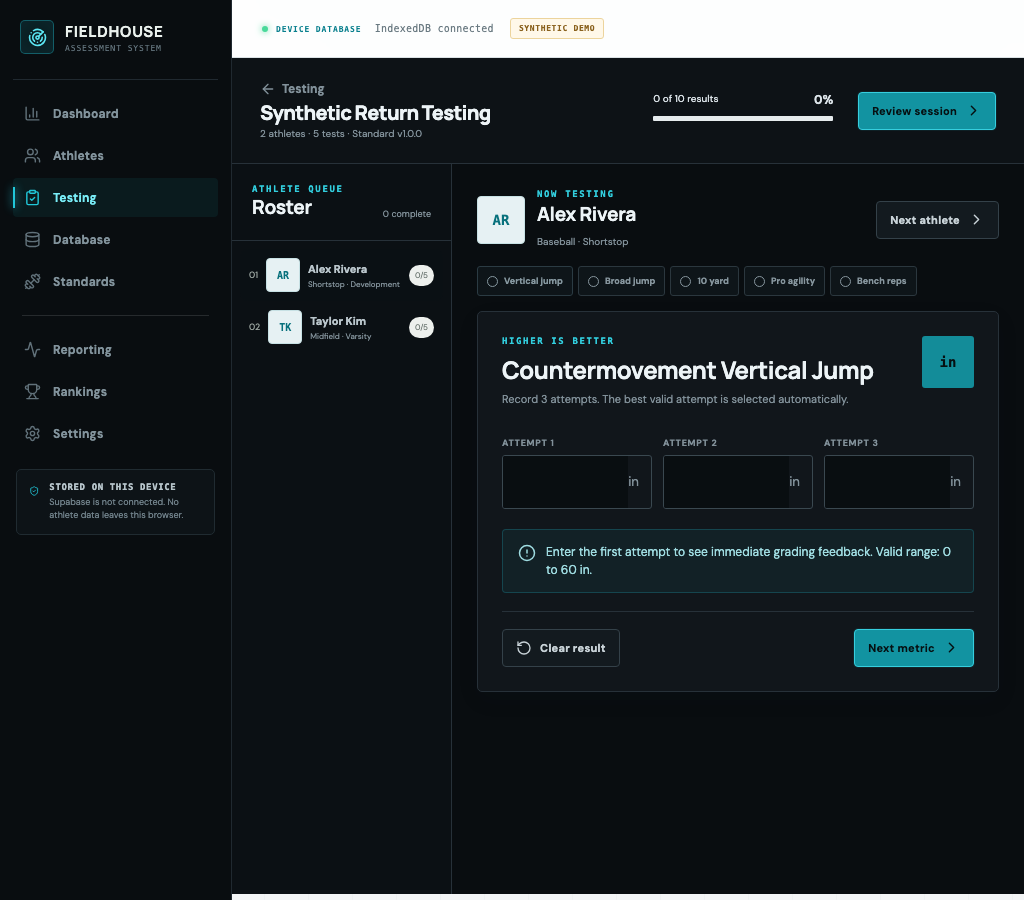
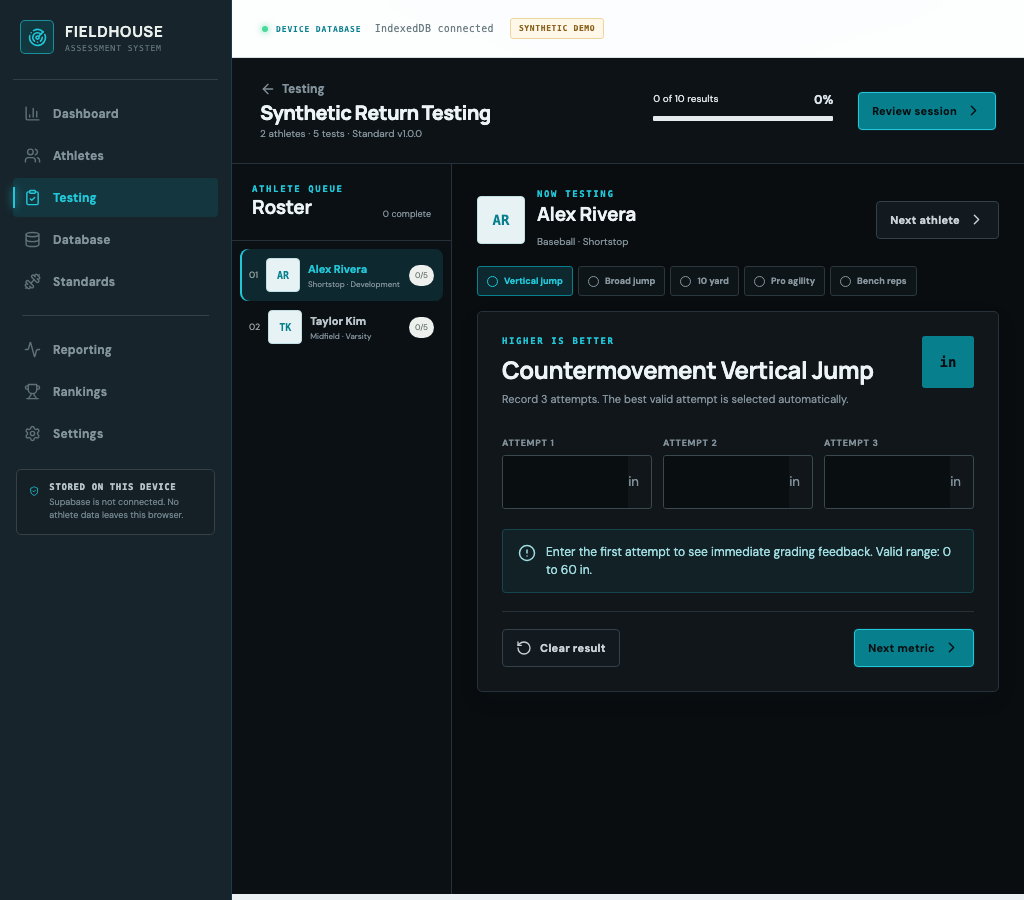
fix: apply coach colors across the system

Changed region(s): [[0.0, 0.0, 0.4375, 1.0], [0.5, 0.3111, 0.5625, 0.3422]]

diff --git a/src/styles.css b/src/styles.css
@@ -136,3 +136,22 @@ th{color:#64757d;background:#f4f7f8}th,td{border-color:#e0e6e8}tbody tr:hover{ba
 @media(max-width:1100px){.ranking-controls{grid-template-columns:repeat(3,1fr)}}
 @media(max-width:800px){.ranking-controls{grid-template-columns:1fr 1fr}}
 @media(max-width:520px){.ranking-controls{grid-template-columns:1fr}.report-detail-row>div:first-child strong,.report-grade strong,.report-percentile strong{font-size:12px}.report-detail-row>p,.report-definition p,.report-contract-grid p,.report-athlete-summary p:last-child{font-size:10px}.report-brand-lockup strong{font-size:12px}.report-brand-lockup small,.report-meta dt,.report-detail-row small{font-size:9px}}
+
+/* Coach brand token bridge. These rules intentionally follow every visual pass. */
+.app-shell{background-color:color-mix(in srgb,var(--brand-primary) 3%,#f3f5f6);background-image:radial-gradient(900px 450px at 65% -180px,color-mix(in srgb,var(--brand-accent) 12%,transparent),transparent 72%)}
+.sidebar{background:var(--brand-shell);border-right-color:color-mix(in srgb,var(--brand-accent) 16%,var(--brand-shell))}
+.brand{border-bottom-color:color-mix(in srgb,#fff 12%,var(--brand-shell))}.brand-mark{background:color-mix(in srgb,var(--brand-primary) 18%,transparent);border-color:color-mix(in srgb,var(--brand-accent) 62%,transparent);color:var(--brand-accent);box-shadow:inset 0 0 18px color-mix(in srgb,var(--brand-primary) 12%,transparent)}
+.sidebar nav a:hover{background:color-mix(in srgb,#fff 7%,var(--brand-shell))}.sidebar nav a.active{background:color-mix(in srgb,var(--brand-primary) 20%,var(--brand-shell));color:var(--brand-accent)}.sidebar nav a.active:before{background:var(--brand-accent);box-shadow:0 0 8px var(--brand-accent)}.sidebar nav a.active svg,.data-boundary svg{color:var(--brand-accent)}
+.data-boundary{border-color:color-mix(in srgb,#fff 13%,var(--brand-shell));background:color-mix(in srgb,#000 12%,var(--brand-shell))}.nav-break{background:color-mix(in srgb,#fff 13%,var(--brand-shell))}
+.topbar-title b,.eyebrow,.section-heading>a,td a,.text-button,.direction-card svg,.incomplete-contract>svg,.service-card>svg,.ranking-control-title svg{color:var(--brand-primary)}
+.button.primary{background:var(--brand-primary);border-color:var(--brand-primary);color:#fff}.button.primary:hover{background:color-mix(in srgb,var(--brand-primary) 82%,#000);border-color:color-mix(in srgb,var(--brand-primary) 82%,#000)}.button.secondary:hover{border-color:var(--brand-primary);color:var(--brand-primary)}
+.stat-card:hover{border-top-color:var(--brand-accent)}.stat-card svg{color:var(--brand-primary);background:color-mix(in srgb,var(--brand-primary) 9%,#fff);border-color:color-mix(in srgb,var(--brand-primary) 24%,#fff)}
+.progress span,.mini-bar span,.score-track span{background:var(--brand-primary)}.quick-start>a>span,.timeline-dot,.empty-icon{background:color-mix(in srgb,var(--brand-primary) 10%,#fff);border-color:color-mix(in srgb,var(--brand-primary) 25%,#fff);color:var(--brand-primary)}
+.search-field:focus-within,input:focus,select:focus{border-color:var(--brand-primary);outline-color:color-mix(in srgb,var(--brand-primary) 15%,transparent)}.athlete-card:hover{border-color:color-mix(in srgb,var(--brand-primary) 55%,#fff)}.avatar{background:color-mix(in srgb,var(--brand-primary) 10%,#fff);color:var(--brand-primary);border-color:color-mix(in srgb,var(--brand-primary) 25%,#fff)}
+.choice-list button.selected,.roster-picker button.selected{border-color:var(--brand-primary);background:color-mix(in srgb,var(--brand-primary) 7%,#fff)}.selected .checkbox,.step-number{background:var(--brand-primary);border-color:var(--brand-primary)}
+.leader-row:hover strong{color:var(--brand-primary)}.leader-track span,.grade-track span{background:linear-gradient(90deg,var(--brand-shell),var(--brand-primary))}.coverage-visual{background:conic-gradient(var(--brand-primary) var(--coverage-angle,0deg),#dce4e7 0deg)}
+.profile-tabs button.active,.audience-nav button.active,.profile-directory-list button.active{border-color:var(--brand-primary);background:color-mix(in srgb,var(--brand-primary) 8%,#fff);box-shadow:inset 3px 0 var(--brand-primary)}.profile-directory-list button.active>span,.metric-navigation button.active{background:var(--brand-primary);border-color:var(--brand-primary)}.audience-chips span,.profile-tags span{color:var(--brand-primary);background:color-mix(in srgb,var(--brand-primary) 7%,#fff);border-color:color-mix(in srgb,var(--brand-primary) 22%,#fff)}
+.upload-zone,.import-steps span{color:var(--brand-primary)}.import-steps span{background:color-mix(in srgb,var(--brand-primary) 9%,#fff)}
+.subtabs button[aria-selected=true]{color:var(--brand-primary);border-color:var(--brand-primary)}.archetype-icon{background:color-mix(in srgb,var(--brand-primary) 10%,#fff);color:var(--brand-primary)}.rank-1,.rank-2,.rank-3{background:var(--brand-shell)}
+.report-header{border-color:var(--brand-shell)}.report-sheet h1,.report-sheet h2,.report-sheet h3{color:var(--brand-shell)}.report-contract-grid>div{background:var(--brand-shell)}.report-contract-grid span{color:var(--brand-accent)}.report-definition{border-left-color:var(--brand-primary)}.trend-dot{background:var(--brand-primary);box-shadow:0 0 0 1px var(--brand-primary)}
+.live-page .eyebrow,.live-kicker{color:var(--brand-accent)}.live-page .button.primary,.unit-badge{background:var(--brand-primary);border-color:var(--brand-accent)}.metric-tabs button.active,.queue-list button.active{background:color-mix(in srgb,var(--brand-primary) 18%,#0e1519);color:var(--brand-accent);border-color:var(--brand-primary)}.queue-list button.active{box-shadow:inset 2px 0 var(--brand-accent)}

diff --git a/src/components/Shell.tsx b/src/components/Shell.tsx
@@ -17,7 +17,7 @@ const insightLinks = [
 ]
 function NavGroup({ links, close }: { links: typeof primaryLinks; close: () => void }) { return <>{links.map(({ to, label, icon: Icon, end }) => <NavLink key={to} to={to} end={end} onClick={close}><Icon size={19} /><span>{label}</span></NavLink>)}</> }
 export default function Shell() {
-  const [open, setOpen] = useState(false); const brand = useBrandSettings(); const style = { '--green': brand.primaryColor, '--green-dark': brand.primaryColor, '--lime': brand.accentColor, '--ink': brand.inkColor, '--body-font': brand.bodyFont, '--display-font': brand.displayFont } as CSSProperties
+  const [open, setOpen] = useState(false); const brand = useBrandSettings(); const style = { '--green': brand.primaryColor, '--green-dark': brand.primaryColor, '--lime': brand.accentColor, '--ink': brand.inkColor, '--brand-primary': brand.primaryColor, '--brand-accent': brand.accentColor, '--brand-shell': brand.inkColor, '--body-font': brand.bodyFont, '--display-font': brand.displayFont } as CSSProperties
   return <div className={`app-shell brand-${brand.direction}`} style={style}>
     <aside className={`sidebar ${open ? 'open' : ''}`}><div className="brand">{brand.logoDataUrl ? <img className="brand-logo" src={brand.logoDataUrl} alt="" /> : <span className="brand-mark"><Radar size={19} /></span>}<div><strong>{brand.organizationName}</strong><small>{brand.productName}</small></div><button className="mobile-close icon-button" onClick={() => setOpen(false)} aria-label="Close navigation"><X /></button></div>
       <nav><NavGroup links={primaryLinks} close={() => setOpen(false)} /><div className="nav-break" /><NavGroup links={insightLinks} close={() => setOpen(false)} /></nav>

diff --git a/e2e/app.spec.ts b/e2e/app.spec.ts
@@ -253,12 +253,18 @@ test('branding persists and changes shell and reports without changing report sc
   await page.goto('/settings')
   await page.getByLabel('Organization name').fill('Coach Test Lab')
   await page.getByLabel('Primary color').fill('#6d28d9')
+  await page.getByLabel('Accent color').fill('#f59e0b')
+  await page.getByLabel('Shell color').fill('#1e293b')
   await page.getByRole('button', { name: /Save branding/ }).click()
   await expect(page.getByRole('button', { name: 'Saved' })).toBeVisible()
   await page.reload()
   await expect(page.getByLabel('Organization name')).toHaveValue('Coach Test Lab')
   await expect(page.locator('.app-shell')).toHaveCSS('--green', '#6d28d9')
+  await expect(page.locator('.sidebar')).toHaveCSS('background-color', 'rgb(30, 41, 59)')
+  await expect(page.locator('.sidebar nav a.active')).toHaveCSS('color', 'rgb(245, 158, 11)')
+  await expect(page.locator('.eyebrow').first()).toHaveCSS('color', 'rgb(109, 40, 217)')
   await page.goto('/reporting/ath-a')
   await expect(page.getByText('Coach Test Lab').first()).toBeVisible()
+  await expect(page.locator('.radar-shape')).toHaveCSS('stroke', 'rgb(109, 40, 217)')
   await expect(page.locator('.score-badge strong').first()).toHaveText(before ?? '')
 })
